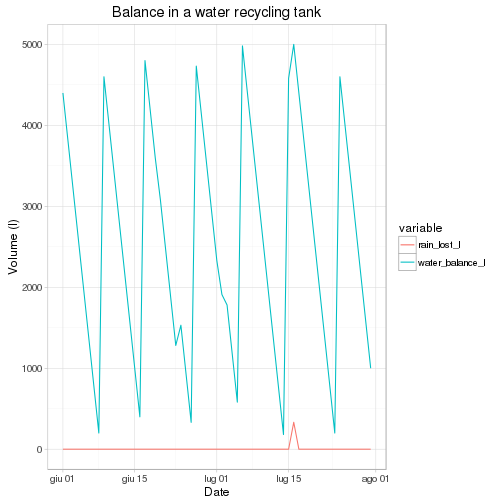
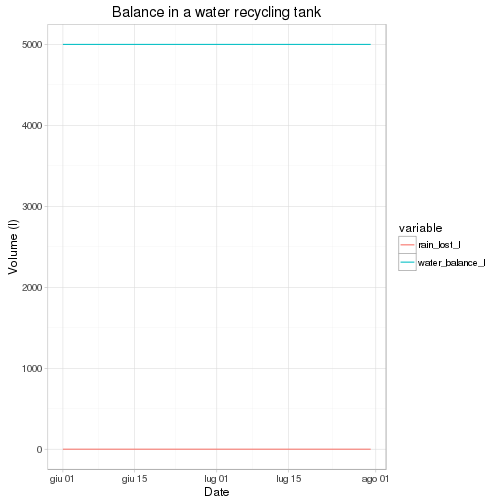
Updated README

diff --git a/README.md b/README.md
@@ -31,18 +31,19 @@ funnel_diameter_cm water_volume_ml date_dmy
 25                 329             24/06/2015
 25                 100             02/07/2015
 25                 200             03/07/2015
-25                 500             16/07/2015",
+25                 700             18/07/2015",
   header = TRUE)
 ```
 
 
-`funnel_diameter_cm` is the diameter of the circular opening where rain is captured, `water_volume_ml` is the amount of water collected in the rain gauge (either as ml or as g).
+`funnel_diameter_cm` is the diameter of the circular opening where rain is captured, `water_volume_ml` is the amount of water collected in the rain gauge (either as `ml` or as `g`).
 
-The surface area of the house roof:
+The surface area of the house roof and its discharge coefficient:
 
 ```r
-roof_area <- 12*12 # m2
-discharge_coefficient <- 0.8
+rainfall_in_tank <- get_tank_charge_on_same_surface(
+  precipitation_area = 121, 
+  discharge_coef     = 0.8)
 ```
 
 Now for the core part: let's compute the amount of precipitation from the rain gauge readings for each precipitation event:
@@ -52,22 +53,36 @@ Now for the core part: let's compute the amount of precipitation from the rain g
 precipitation_events <- precipitation_events %>%
   mutate(
     date = lubridate::dmy(date_dmy),
-    funnel_area_cm2 = get_funnel_area(funnel_diameter_cm), # cm2
-    pluv_factor     = get_pluviometer_factor(funnel_area_cm2), # 1/m2
-    rain_mm         = get_precipitation_measure(water_volume_ml, pluv_factor), # ml o l/m2
-    tank_rain_charge_l = get_tank_charge(rain_mm, roof_area, discharge_coefficient) # l
+    rain_mm         = get_precipitation_measure(
+      water_volume_ml,
+      funnel_diameter_cm %>% get_funnel_area), # ml o l/m2
+    tank_rain_charge_l = rain_mm %>% rainfall_in_tank # l
   )
-print(precipitation_events %>% select(date, rain_mm, tank_rain_charge_l))
+precipitation_events %>% 
+  select(date, rain_mm, tank_rain_charge_l) %>% 
+  print
 ```
 
 ```
 ##         date   rain_mm tank_rain_charge_l
-## 1 2015-06-20  1.367943           81.78384
-## 2 2015-06-24  6.702333          849.93595
-## 3 2015-07-02  2.037183          178.15439
-## 4 2015-07-03  4.074367          471.50878
-## 5 2015-07-16 10.185916         1351.57196
+## 1 2015-06-20  1.367943           132.4169
+## 2 2015-06-24  6.702333           648.7858
+## 3 2015-07-02  2.037183           197.1993
+## 4 2015-07-03  4.074367           394.3987
+## 5 2015-07-18 14.260283          1380.3954
 ```
+
+
+```r
+ggplot(precipitation_events, aes(x = date, y = rain_mm)) +
+  geom_bar(stat = "identity") +
+  scale_y_continuous("Rainfall (mm)") +
+  scale_x_date("Date") +
+  theme_light()
+```
+
+![plot of chunk unnamed-chunk-5](figure/unnamed-chunk-5-1.png)
+
 
 Finally a monthly summary:
 
@@ -88,8 +103,8 @@ print(monthly_precipitation)
 ## 
 ##    month  year   rain_mm tank_rain_charge_l
 ##   (fctr) (dbl)     (dbl)              (dbl)
-## 1    Jun  2015  8.070276           931.7198
-## 2    Jul  2015 16.297466          2001.2351
+## 1    Jun  2015  8.070276           781.2027
+## 2    Jul  2015 20.371833          1971.9934
 ```
 
 ## Water balance in the water recycling tank
@@ -139,75 +154,39 @@ water_use_tbl <- within(water_use_tbl, {
 
 Every time the tank empties it need to be recharged with water from the well. Let's estimate how much water we have pumped from the well, as opposed to the water we recycled from rain fallen on the house roof, on a daily level.
 
-Firstly we need a simulation function that lowers water level in the tank according to sprinkler water needs, pumps water from the well when water level drops below 0, and adds rain water, on a daily level:
+We will simulate a tank whose water level varies according to sprinkler water needs, water pumped from the well, and rain collected from the roof. Let's walk the `water_use_tbl` data frame to estimate the water balance on a dayly basis:
 
 
 ```r
-get_water_balance <- function(water_balance_l, 
-                              tank_rain_charge_l, 
-                              daily_water_usage_l, 
-                              is_recharged, 
-                              rain_lost_l,
-                              tank_volume_l) {
-  
-  new_water_balance_l <- sum(c(
-    water_balance_l, 
-    tank_rain_charge_l, 
-    daily_water_usage_l*-1), 
-    na.rm = TRUE)
-  
-  if (new_water_balance_l < 0) {
-    new_water_balance_l <- new_water_balance_l + tank_volume_l
-    is_recharged  <- TRUE
-  }
-  if (new_water_balance_l > tank_volume_l) {
-    rain_lost_l         <- new_water_balance_l - tank_volume_l
-    new_water_balance_l <- tank_volume_l
-    tank_rain_charge_l  <- tank_rain_charge_l - rain_lost_l
-  }
-
-  data.frame(
-    water_balance_l = new_water_balance_l, 
-    tank_rain_charge_l, 
-    daily_water_usage_l, 
-    is_recharged, 
-    rain_lost_l)
-}
-```
-
-Then we walk the `water_use_tbl` data frame:
-
-```r
-for(i in seq(1, nrow(water_use_tbl), by = 1)) {
-  day_row <- water_use_tbl[i,]
-
-  if(i == 1) {
-      prior_water_balance_l <- day_row$water_balance_l
+for (i in seq(1, nrow(water_use_tbl), by = 1)) {
+ 
+  if (i == 1) {
+      prior_water_level_l <- water_use_tbl$water_balance_l[i]
   } else {
-      prior_water_balance_l <- water_use_tbl$water_balance_l[i-1]
+      prior_water_level_l <- water_use_tbl$water_balance_l[i - 1]
   } 
 
-  tmp_df <- with(
-    day_row, 
-    get_water_balance(
-      prior_water_balance_l, 
-      tank_rain_charge_l, 
-      daily_water_usage_l, 
-      is_recharged, 
-      rain_lost_l, 
-      tank_volume_l))
+  tmp_df <- get_tank_water_level(
+      tank_level = prior_water_level_l, 
+      water_in  = water_use_tbl$tank_rain_charge_l[i], 
+      water_out = water_use_tbl$daily_water_usage_l[i], 
+      tank_volume = tank_volume_l)
 
   water_use_tbl[i,] <- within(
     water_use_tbl[i,], {
-      water_balance_l = tmp_df$water_balance_l
+      water_balance_l = tmp_df$tank_level
       is_recharged    = tmp_df$is_recharged
-      rain_lost_l     = tmp_df$rain_lost_l
-      tank_rain_charge_l = tmp_df$tank_rain_charge_l
+      rain_lost_l     = tmp_df$water_lost
+      tank_rain_charge_l = tmp_df$water_in
   })
 }
 ```
 
+```
+## Error: non trovo la funzione "get_tank_water_level"
+```
 
+The jaw-teeth plot of the daily water balance in the tank reveals the grim role of rainfall in the summer season as far as water budget for irrigation is concerned:
 
 ```r
 water_use_tbl %>% 
@@ -242,7 +221,7 @@ total_water_budget %>% print
 
 ```
 ##   tank_rain_charge_l tank_well_charge_l rain_lost_l
-## 1               2600              30000    332.9549
+## 1           2753.196                  0           0
 ```
 
 Hopefully next year won't be as dry as 2015...
